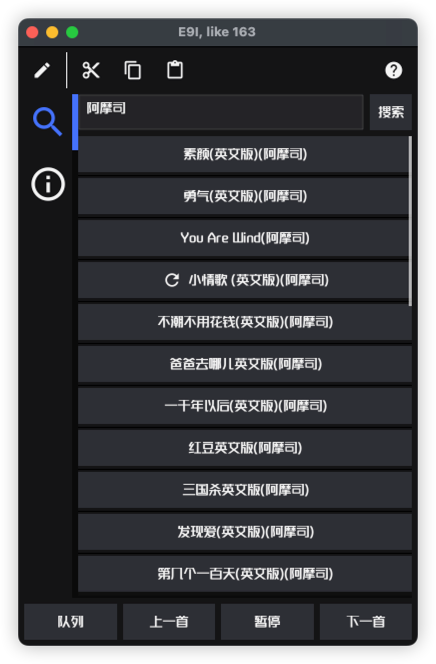
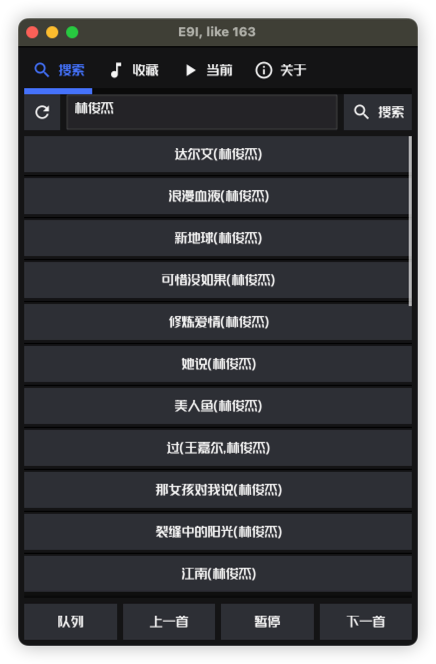
调整布局,删除工具栏

diff --git a/player_ui.go b/player_ui.go
@@ -30,20 +30,22 @@ var input *widget.Entry
 
 func Ui() fyne.CanvasObject {
 
-	toolbar := widget.NewToolbar(
-		widget.NewToolbarAction(theme.DocumentCreateIcon(), func() {}),
-		widget.NewToolbarSeparator(),
-		widget.NewToolbarAction(theme.ContentCutIcon(), func() {}),
-		widget.NewToolbarAction(theme.ContentCopyIcon(), func() {}),
-		widget.NewToolbarAction(theme.ContentPasteIcon(), func() {}),
-		widget.NewToolbarSpacer(),
-		widget.NewToolbarAction(theme.HelpIcon(), func() {
-			tabs.SelectIndex(1)
-		}),
-	)
+	//toolbar := widget.NewToolbar(
+	//	widget.NewToolbarAction(theme.DocumentCreateIcon(), func() {}),
+	//	widget.NewToolbarSeparator(),
+	//	widget.NewToolbarAction(theme.ContentCutIcon(), func() {}),
+	//	widget.NewToolbarAction(theme.ContentCopyIcon(), func() {}),
+	//	widget.NewToolbarAction(theme.ContentPasteIcon(), func() {}),
+	//	widget.NewToolbarSpacer(),
+	//	widget.NewToolbarAction(theme.HelpIcon(), func() {
+	//		tabs.SelectIndex(1)
+	//	}),
+	//)
 
 	tabs = container.NewAppTabs(
 		UiSearchTab(),
+		UiStarTab(),
+		UiPlayListTab(),
 		UiInfoTab(),
 	)
 
@@ -82,8 +84,8 @@ func Ui() fyne.CanvasObject {
 	})
 	controlBar := container.NewGridWithColumns(4, loopTitle, playPre, pause, playNext)
 
-	tabs.SetTabLocation(container.TabLocationLeading)
-	content := container.NewBorder(toolbar, controlBar, nil, nil, tabs)
+	tabs.SetTabLocation(container.TabLocationTop)
+	content := container.NewBorder(nil, controlBar, nil, nil, tabs)
 	return content
 }
 
@@ -103,6 +105,10 @@ func UiSearchTab() *container.TabItem {
 	if input.Text == "" {
 		input.SetText(source.Recommand[rand.Intn(len(source.Recommand))])
 	}
+	btnRandom := widget.NewButton("", func() {
+		input.SetText(source.Recommand[rand.Intn(len(source.Recommand))])
+	})
+	btnRandom.SetIcon(theme.ViewRefreshIcon())
 	btnSearch := widget.NewButton("搜索", func() {
 		songs := Search(input.Text)
 		playlist = playlist[:0]
@@ -110,7 +116,8 @@ func UiSearchTab() *container.TabItem {
 		RefreshSearchList()
 		log.Println("Search: ", input.Text)
 	})
-	toolBar := container.NewBorder(nil, nil, nil, btnSearch, input)
+	btnSearch.SetIcon(theme.SearchIcon())
+	toolBar := container.NewBorder(nil, nil, btnRandom, btnSearch, input)
 	searchResult := widget.NewList(
 		func() int {
 			return len(playlist)
@@ -135,8 +142,24 @@ func UiSearchTab() *container.TabItem {
 			}
 		})
 	itemContent := container.NewBorder(toolBar, nil, nil, nil, searchResult)
-	searchItem := container.NewTabItemWithIcon("", theme.SearchIcon(), itemContent)
+	searchItem := container.NewTabItemWithIcon("搜索", theme.SearchIcon(), itemContent)
 	return searchItem
+}
+
+func UiStarTab() *container.TabItem {
+	content := container.NewCenter(container.NewVBox(
+		container.NewCenter(widget.NewLabel("E9I, faker of 163")),
+		container.NewCenter(widget.NewLabel(fmt.Sprintf("Version: %s", source.Version))),
+	))
+	return container.NewTabItemWithIcon("收藏", theme.MediaMusicIcon(), content)
+}
+
+func UiPlayListTab() *container.TabItem {
+	content := container.NewCenter(container.NewVBox(
+		container.NewCenter(widget.NewLabel("E9I, faker of 163")),
+		container.NewCenter(widget.NewLabel(fmt.Sprintf("Version: %s", source.Version))),
+	))
+	return container.NewTabItemWithIcon("当前", theme.MediaPlayIcon(), content)
 }
 
 func UiInfoTab() *container.TabItem {
@@ -144,7 +167,7 @@ func UiInfoTab() *container.TabItem {
 		container.NewCenter(widget.NewLabel("E9I, faker of 163")),
 		container.NewCenter(widget.NewLabel(fmt.Sprintf("Version: %s", source.Version))),
 	))
-	return container.NewTabItemWithIcon("", theme.InfoIcon(), content)
+	return container.NewTabItemWithIcon("关于", theme.InfoIcon(), content)
 }
 
 func RefreshSearchList() {

diff --git a/source/recommand.go b/source/recommand.go
@@ -1,3 +1,5 @@
 package source
 
-var Recommand = []string{"vae", "林俊杰", "梦 温舒娴", "宮内優里"}
+var Recommand = []string{"vae", "林俊杰", "梦 温舒娴", "宮内優里",
+	"110819", "I can do it", "方大同", "90年代",
+}
